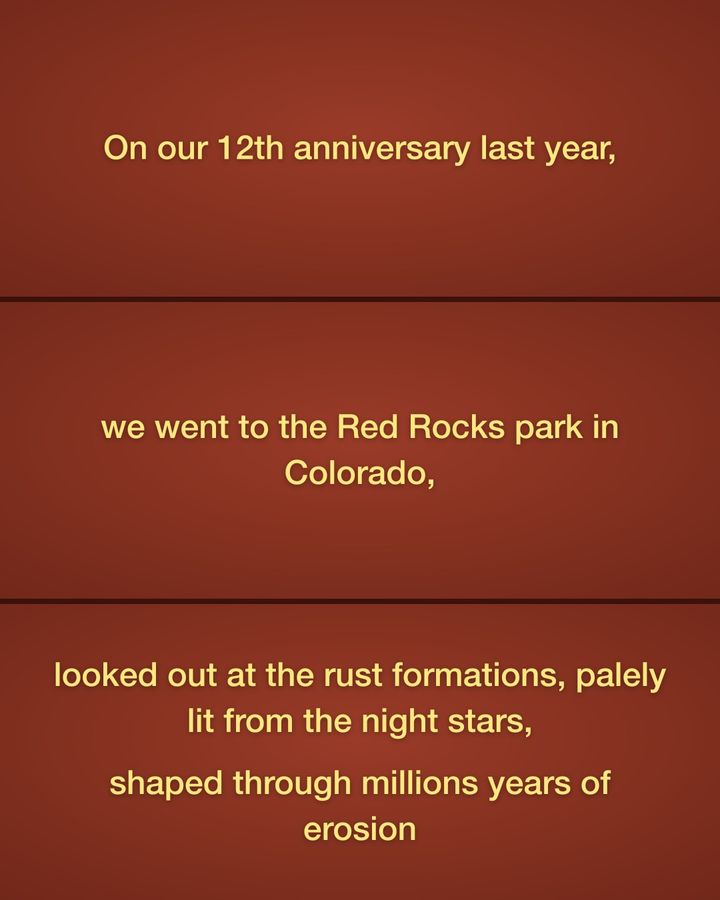
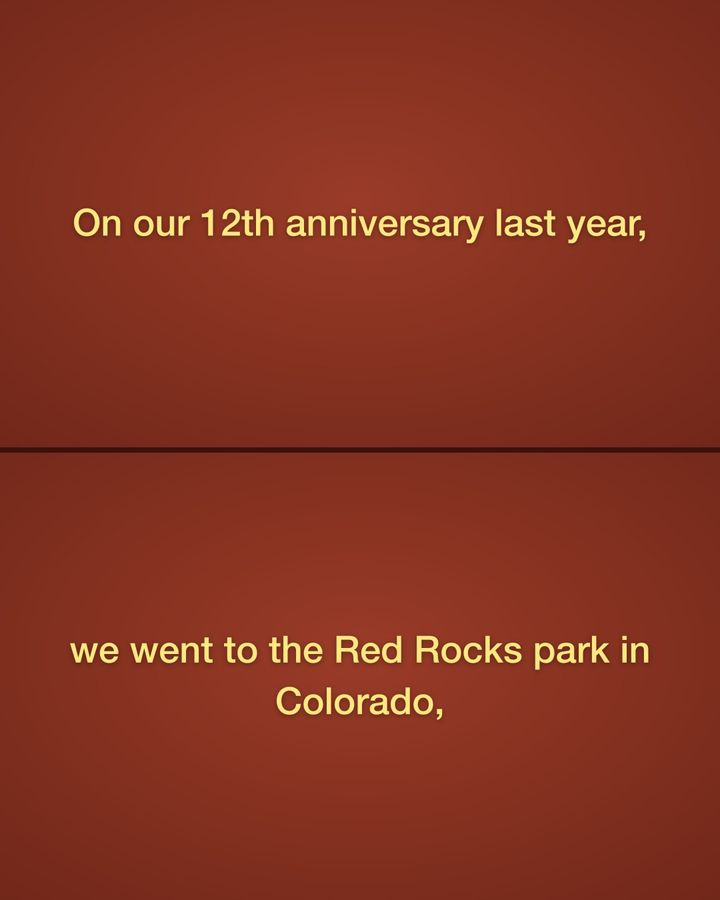
Red Rocks lines split onto their own slide (15 slides)

diff --git a/index.html b/index.html
@@ -52,12 +52,12 @@
   <button class="hit prev" id="prev" aria-label="Previous slide"></button>
   <button class="hit next" id="next" aria-label="Next slide"></button>
 </div>
-<div class="bar"><div class="dots" id="dots"></div><div class="count" id="count">1 / 14</div></div>
+<div class="bar"><div class="dots" id="dots"></div><div class="count" id="count">1 / 15</div></div>
 
 
 <script>
-  const V = "2"; // bump after any slide change so phones don't show old cached slides
-  const N = 14, stage = document.getElementById("stage"), dots = document.getElementById("dots"), count = document.getElementById("count");
+  const V = "3"; // bump after any slide change so phones don't show old cached slides
+  const N = 15, stage = document.getElementById("stage"), dots = document.getElementById("dots"), count = document.getElementById("count");
   const imgs = [];
   for (let i = 1; i <= N; i++) {
     const im = document.createElement("img");
